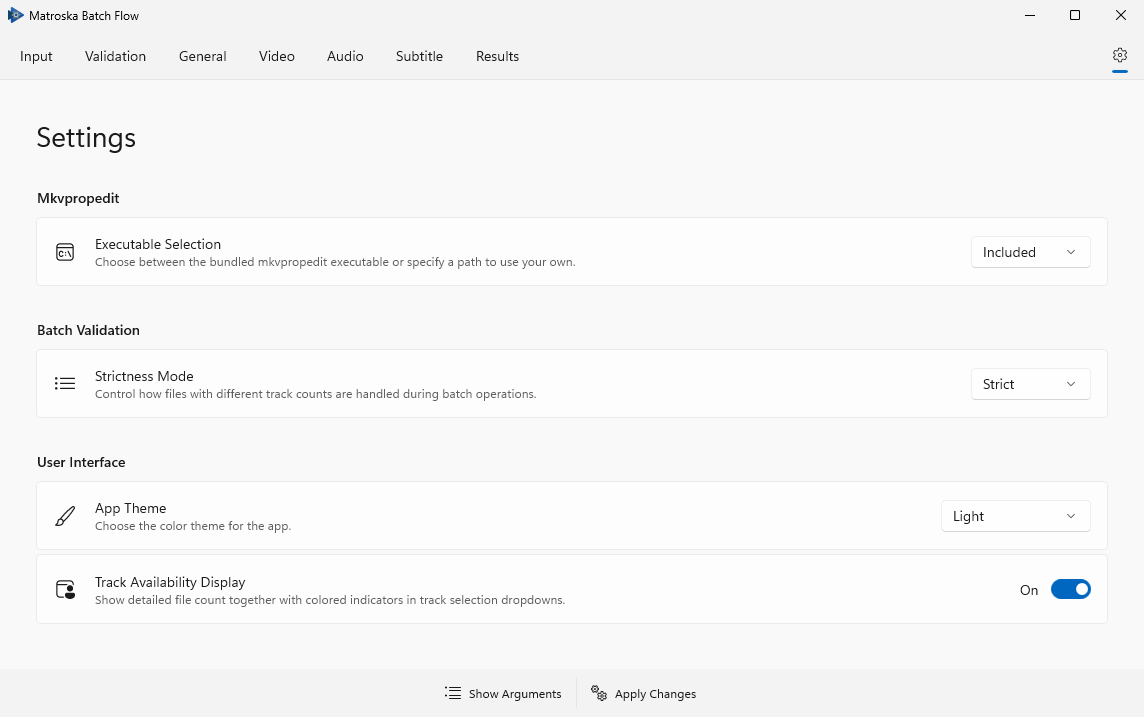
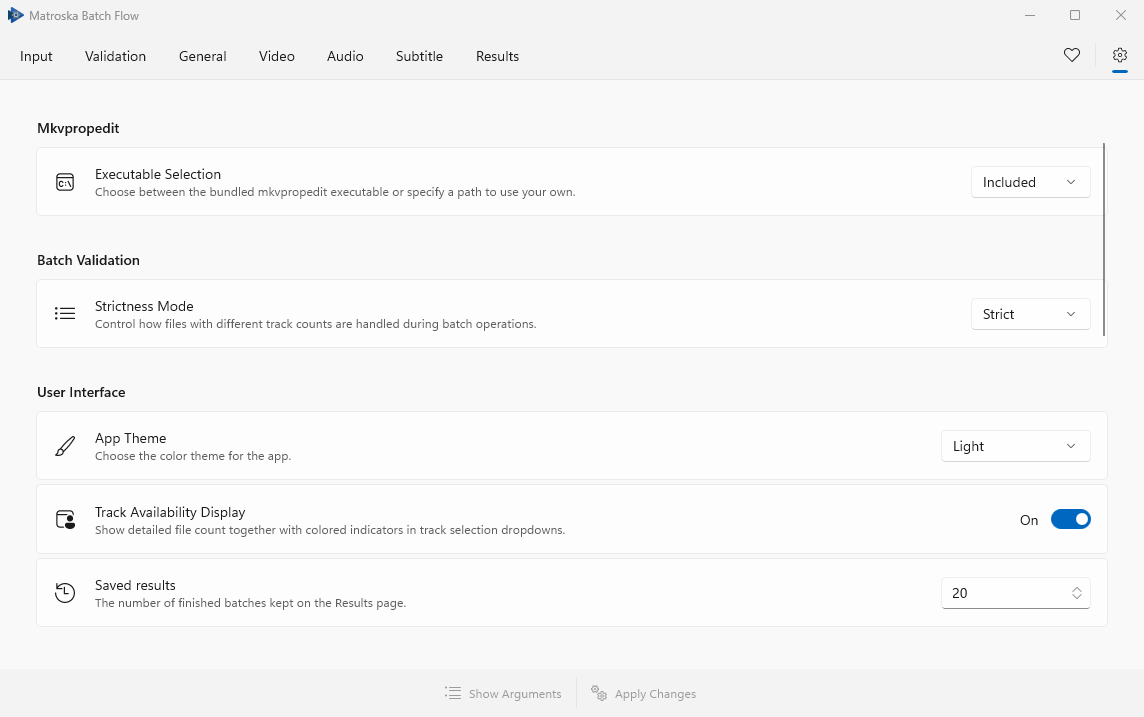
docs: document batch results and refresh screenshots

diff --git a/src/content/docs/user-guide.md b/src/content/docs/user-guide.md
@@ -1,17 +1,18 @@
 ---
 title: User Guide
-description: Learn the main Matroska Batch Flow workflow, from adding files to applying your changes.
+description: Learn the Matroska Batch Flow workflow, from adding files to reviewing and managing batch results.
 order: 2
 ---
 
 ## Overview
 
-Matroska Batch Flow is designed to make batch editing of Matroska files easy and efficient. The main workflow comes down to four simple steps:
+The main workflow has five steps:
 
 1. **Add files**: Select the `.mkv` files you want to process
 2. **Review**: Check for any validation issues or inconsistencies across your batch
 3. **Configure**: Set container and track properties across the batch
-4. **Apply Changes**: Write your edits to all files at once
+4. **Apply Changes**: Write the configured edits to the batch
+5. **Review results**: See what happened to each file
 
 ## Adding Files
 
@@ -99,7 +100,26 @@ Press **Cancel** to stop the batch:
 - The file that is being processed is always finished first, so a file is never left half-written. When track statistics are added to a large file this can take a while; the progress window keeps showing its progress.
 - Files that haven't been started are left unchanged.
 
-After processing, a dialog summarizes the result, and the Results page shows counts for total files, succeeded, warnings, and failed.
+## Review results
+
+After processing, dismiss the summary dialog and open **Results**. The banner shows the batch outcome, when the run started, and how long it took. Use the filter above **Files** to narrow the list by outcome, or expand a file to see its location, any errors or warnings, and a diagnostic preview of the `mkvpropedit` command, when available.
+
+- **Files** counts every file in the batch.
+- **Updated** counts files updated successfully.
+- **Warnings** counts updated files where `mkvpropedit` reported something to review. These files are also counted under **Updated**.
+- **Failed** counts files that could not be updated because of an error.
+- **No applicable changes** means none of your edits applied to this file, usually because it lacks the configured track. Existing values aren't compared.
+- **Not processed** means you canceled the batch before the file was edited.
+- **Interrupted** means the batch stopped unexpectedly before the file finished. If editing had started, the file may have changed.
+
+### Manage saved results
+
+Results are saved on your device, so you can review past batches after restarting the app. Open **Saved batch result** and select a run by its date and outcome.
+
+- To remove one result, select the trash icon next to it and confirm **Remove from history**.
+- To clear all listed results, select **Clear result history…**, check the count, and confirm **Remove all**.
+
+Removing results doesn't change your media files or undo any edits. To choose how many batch results the app keeps, see [Saved results](/docs/settings#saved-results).
 
 ## Next Steps
 

diff --git a/src/content/docs/settings.md b/src/content/docs/settings.md
@@ -10,8 +10,9 @@ Open the Settings page by clicking the gear icon in the top-right corner of the 
 
 - [Mkvpropedit](#mkvpropedit) - Configure the mkvpropedit executable path
 - [Batch Validation](#batch-validation) - Control validation strictness for your batches
-- [User Interface](#user-interface) - Theme and display preferences
+- [User Interface](#user-interface) - Theme, display, and saved results
 - [Logging](#logging) - Log viewer and verbosity settings
+- [Support](#support) - Link to the project's sponsor page
 - [About](#about) - Version, license, and attribution info
 
 ---
@@ -125,6 +126,14 @@ Show detailed file count (e.g., "X/Y files") together with colored indicators in
 - **Enabled** _(default)_: Colored dot indicators are shown together with "X/Y files" text
 - **Disabled**: Only colored dot indicators are shown
 
+### Saved results
+
+Choose how many finished batches to keep on the **Results** page, from 1 to 100. The default is 20. When more runs are saved, the oldest results are removed first.
+
+If lowering the limit would remove saved results, the app shows how many would be removed. Select **Remove results** to apply the new limit, or **Cancel** to keep both the previous limit and your saved results. This does not change your media files.
+
+If the setting is read-only because history could not be read, [recover the history](/docs/faq#why-does-results-say-history-needs-recovery) before changing the limit.
+
 ---
 
 ## Logging
@@ -156,6 +165,12 @@ Set the log level to **Debug** or **Verbose** when troubleshooting an issue befo
 :::note
 The log level can be overridden in the application's `appsettings.json` configuration file. When `LoggingOptions.MinimumLevel` is set there, the UI log level selector is disabled and the configured level is used instead.
 :::
+
+---
+
+## Support
+
+Select **Support the project** to open the [Sponsor](/sponsor) page in your browser. You can also get there from the heart icon next to Settings.
 
 ---
 

diff --git a/src/content/docs/faq.md b/src/content/docs/faq.md
@@ -57,6 +57,10 @@ Common causes:
 
 Matroska Batch Flow does not have a built-in undo feature. Changes are written directly to the file without creating a backup, so previous property values cannot be restored automatically. It goes without saying to back up irreplaceable files before processing.
 
+### Does clearing result history undo my edits?
+
+No. Clearing history removes saved reports, not the edits written to your files. See [Manage saved results](/docs/user-guide#manage-saved-results) to remove a single report or clear the list.
+
 ### What happens if my files have different track counts?
 
 This depends on your [validation mode](/docs/settings#batch-validation). In **Strict mode**, differing track counts block **Apply Changes**. In **Lenient** or **Custom mode**, this can be allowed.
@@ -107,6 +111,10 @@ The language list is loaded from a bundled `languages.json` file. If it's missin
 
 1. Re-download the release from GitHub
 2. Ensure the `Resources` folder is intact alongside the executable
+
+### Why does Results say history needs recovery?
+
+The app couldn't read the saved history. On **Results**, open **Saved batch result** and choose **Recover history…**. Read the confirmation before continuing: if the history is still unreadable, the app rebuilds it from the results it can still show. Results it couldn't read will be lost. If it finds a readable history that's missing results still listed in the app, you can choose to keep the saved history or restore the missing results.
 
 ### Where are user settings stored?
 
